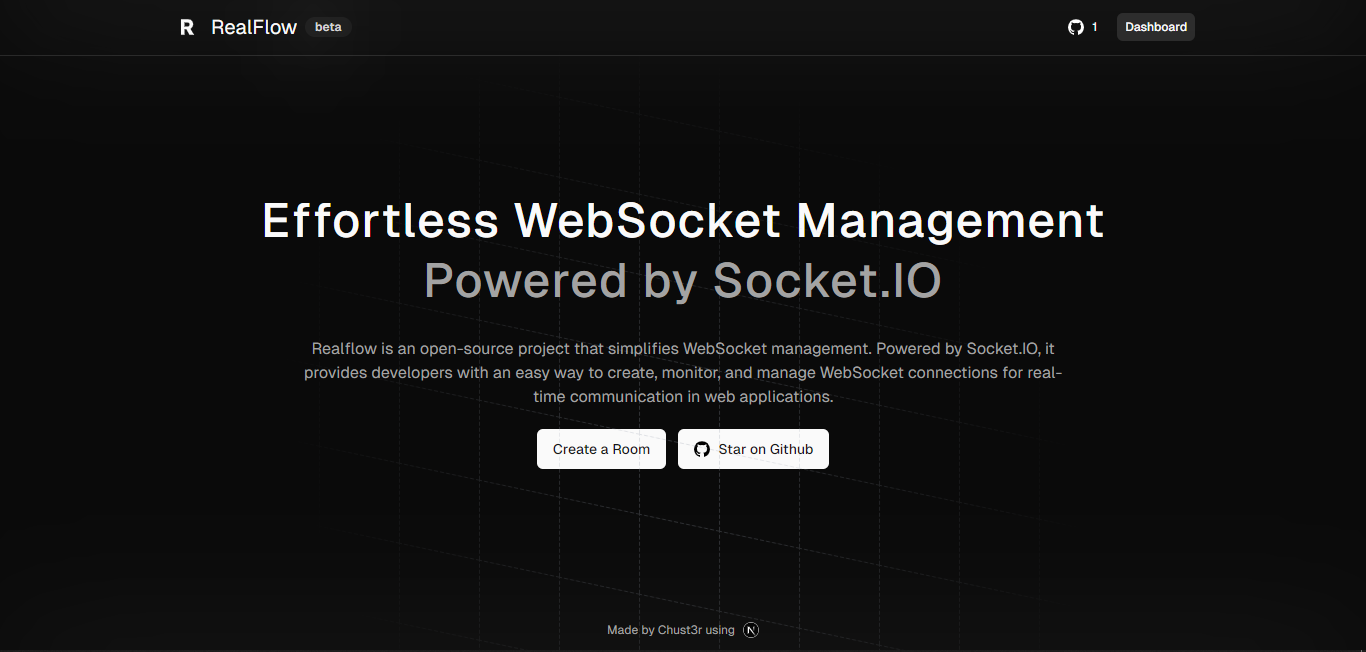
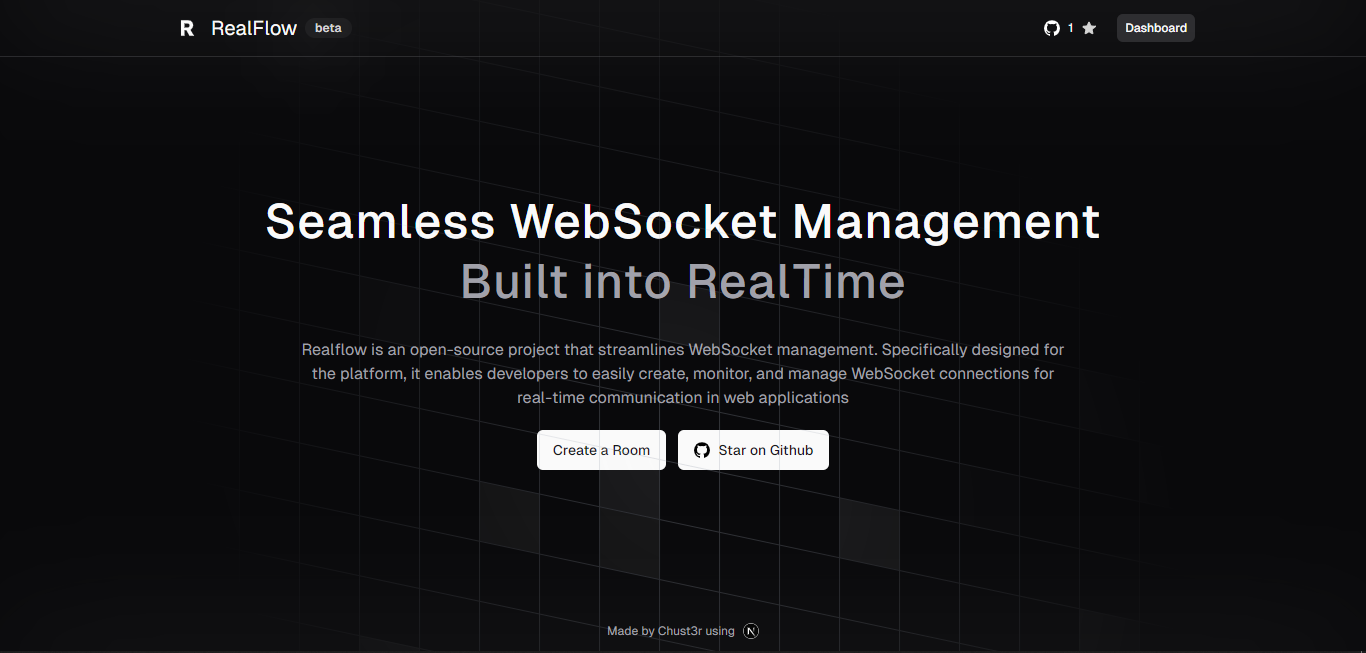
Update README

diff --git a/README.md b/README.md
@@ -16,7 +16,6 @@
 -  [Contributing](#contributing)
 -  [License](#license)
 
-
 ## Features
 
 -  **Custom Channels**: Create channels with authentication, connection limits (_in development_, max limits are customizable in local development), and more.
@@ -24,7 +23,7 @@
 -  **Message Retention**: Save and access historical messages in your channels (_in development_).
 -  **Security**: Credential-based authentication with public and secret keys.
 -  **User-friendly Interface**: Intuitive dashboard for managing and monitoring your channels.
--  **Real-time Communication**: Real-time communication with WebSockets or other protocols contained in [Socket.IO](https://socket.io).
+-  **Real-time Communication**: Implements a real-time communication protocol with native WebSockets.
 -  **Event**: Visualize events in real-time.
 
 ## Technologies
@@ -37,7 +36,7 @@
 -  **Drizzle ORM** (Drizzle ORM is a headless TypeScript ORM with a head)
 -  **Shadcn UI** (Beautifully designed components that you can copy and paste into your apps.)
 -  **Nanostores** (A tiny state manager for React, React Native, Preact, Vue, Svelte, Solid, Lit, Angular, and vanilla JS.)
-- **Socket IO** (Real-time communication with WebSockets or other protocols)
+
 
 ## Requeriments
 
@@ -45,7 +44,7 @@
 -  **Bun v0.2.0 or higher**
 -  **PostgreSQL v14 or higher**
 -  **Visual Studio Code**
-- **RealFlow backend** [required](https://github.com/Chust3r/realflow-back)
+-  **RealFlow backend** [required](https://github.com/Chust3r/realflow-back)
 
 ## Installation
 
@@ -66,7 +65,7 @@
 
    ```
 
-    # AUTH JS 
+    # AUTH JS
 
     AUTH_SECRET=
 
@@ -74,8 +73,8 @@
 
     # AUTH PROVIDERS
 
-    AUTH_GOOGLE_ID = 
-    AUTH_GOOGLE_SECRET = 
+    AUTH_GOOGLE_ID =
+    AUTH_GOOGLE_SECRET =
 
     GITHUB_ID=
     GITHUB_CLIENT_SECRET=
@@ -89,7 +88,7 @@
     MAX_ROOMS = 3
     MAX_CONNECTIONS = 20
     MAX_SECRET_KEYS = 3
-   
+
    ```
 
 4. Run database migrations:
@@ -124,13 +123,11 @@ You can monitor channel usage with detailed metrics in the Realflow dashboard.
 
 div align="center"><img src="./public/images/realflow-dashboard-metrics.png" alt="RealFlow dashboard"/></div>
 
-
 ### Events
 
 Events are visualized in real-time in the Realflow dashboard.
 
 <div align="center"><img src="./public/images/realflow-dashboard-events.png" alt="RealFlow dashboard"/></div>
-
 
 ## Contributing
 
@@ -140,4 +137,4 @@ Events are visualized in real-time in the Realflow dashboard.
 
 ## License
 
-[GPL-3.0 License](https://github.com/Chust3r/realflow/blob/main/LICENSE) 
+[GPL-3.0 License](https://github.com/Chust3r/realflow/blob/main/LICENSE)
